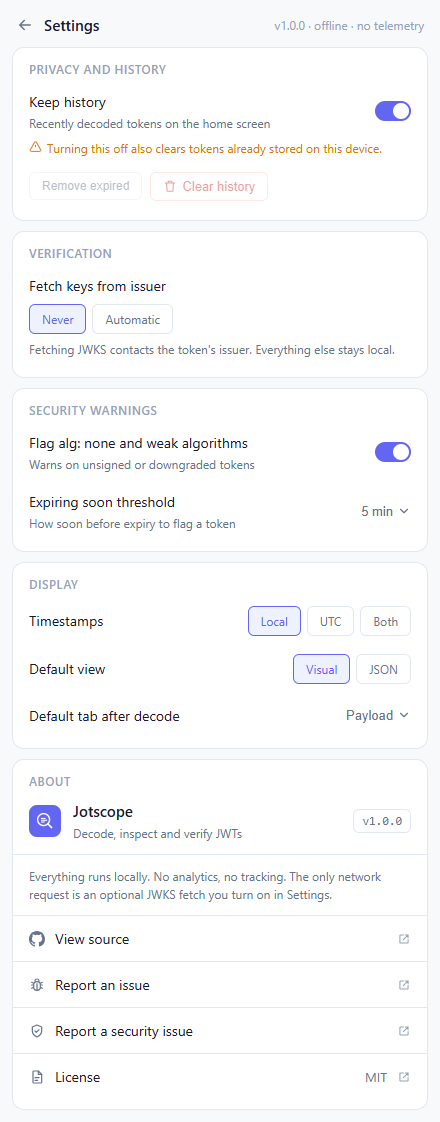
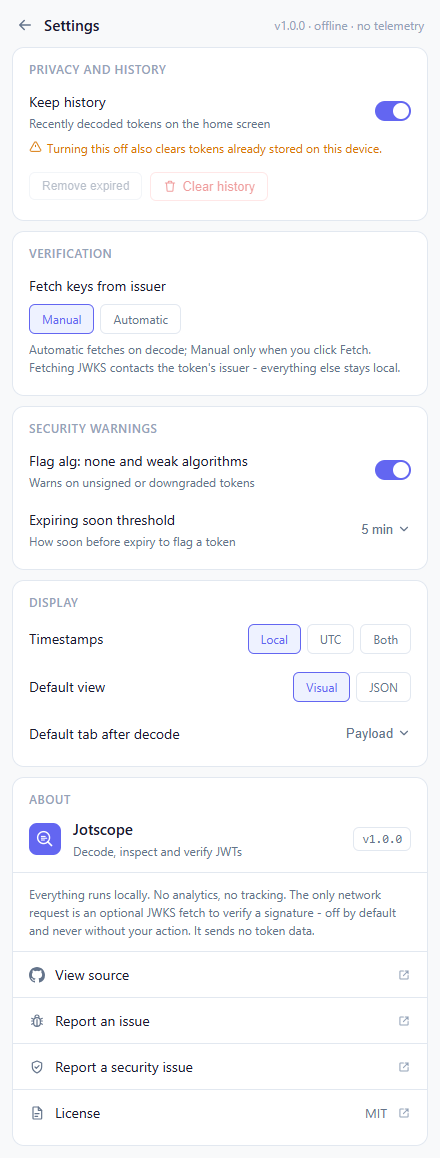
fix: rebind reserved shortcuts and rename fetch mode Never→Manual (#9)

diff --git a/popup.js b/popup.js
@@ -822,7 +822,6 @@ jwtInput.addEventListener('input', () => {
 
 jwtInput.addEventListener('keydown', e => {
   if (e.key === 'Enter' && e.ctrlKey) handleDecode();
-  if (e.key === 'C' && e.ctrlKey && e.shiftKey) { e.preventDefault(); clearInput(); }
 });
 
 jwtInput.addEventListener('paste', () => {
@@ -849,7 +848,7 @@ document.addEventListener('paste', e => {
   handleDecode();
 });
 
-// Global keyboard shortcuts (Ctrl+Shift+H/P/B)
+// Global keyboard shortcuts (Ctrl+Shift+H/P/Y)
 document.addEventListener('keydown', async e => {
   if (e.target.tagName === 'TEXTAREA' || e.target.tagName === 'INPUT') return;
   if (!currentToken) return;
@@ -867,10 +866,23 @@ document.addEventListener('keydown', async e => {
       document.querySelector('.btn-copy-json[data-target="payload"]'),
       '<span aria-hidden="true">✓</span> Copied!');
   }
-  if (e.key === 'B' && e.ctrlKey && e.shiftKey) {
+  // Ctrl+Shift+Y copies Bearer (Ctrl+Shift+B is reserved by Chrome for the bookmarks bar).
+  if (e.key === 'Y' && e.ctrlKey && e.shiftKey) {
     e.preventDefault();
     copyBearerBtn.click();
   }
+});
+
+// Ctrl+Backspace clears the loaded token / input from anywhere (Ctrl+Shift+C is
+// reserved by Chrome for Inspect Element). Bound globally so it works in the
+// decoded view too - but stands aside in the search / JWKS fields so their
+// native word-delete still works.
+document.addEventListener('keydown', e => {
+  if (!(e.key === 'Backspace' && e.ctrlKey)) return;
+  const t = e.target;
+  if (t.tagName === 'INPUT' || (t.tagName === 'TEXTAREA' && t !== jwtInput)) return;
+  e.preventDefault();
+  clearInput();
 });
 
 // View "View all" placeholder
@@ -1087,7 +1099,7 @@ keepHistoryToggle.addEventListener('keydown', e => {
 });
 syncKeepHistoryToggle();
 
-// ── Setting: Fetch keys from issuer (never | automatic) ───────────────────
+// ── Setting: Fetch keys from issuer (manual | automatic) ──────────────────
 const fetchKeysSeg = document.getElementById('fetch-keys-seg');
 
 function syncFetchKeysSeg() {

diff --git a/utils/storage.js b/utils/storage.js
@@ -17,15 +17,16 @@ export function setKeepHistory(value) {
 }
 
 // Whether to auto-fetch JWKS from the issuer to verify signatures.
-// The only outbound network call in the app - off ('never') by default.
+// The only outbound network call in the app - 'manual' (on-demand only) by
+// default; 'automatic' fetches on decode. Legacy 'never' values read as 'manual'.
 const FETCH_KEYS_KEY = 'jwt_fetch_keys_mode';
 
 export function getFetchKeysMode() {
-  return localStorage.getItem(FETCH_KEYS_KEY) === 'automatic' ? 'automatic' : 'never';
+  return localStorage.getItem(FETCH_KEYS_KEY) === 'automatic' ? 'automatic' : 'manual';
 }
 
 export function setFetchKeysMode(mode) {
-  localStorage.setItem(FETCH_KEYS_KEY, mode === 'automatic' ? 'automatic' : 'never');
+  localStorage.setItem(FETCH_KEYS_KEY, mode === 'automatic' ? 'automatic' : 'manual');
 }
 
 // Whether to flag alg:none / unrecognized algorithms. Defaults to on.

diff --git a/popup.html b/popup.html
@@ -322,10 +322,10 @@
       <div class="setting-block">
         <p class="setting-name">Fetch keys from issuer</p>
         <div class="segmented" id="fetch-keys-seg" role="group">
-          <span class="seg" data-mode="never">Never</span>
+          <span class="seg" data-mode="manual">Manual</span>
           <span class="seg" data-mode="automatic">Automatic</span>
         </div>
-        <p class="setting-desc">Fetching JWKS contacts the token's issuer. Everything else stays local.</p>
+        <p class="setting-desc">Automatic fetches on decode; Manual only when you click Fetch. Fetching JWKS contacts the token's issuer - everything else stays local.</p>
       </div>
     </section>
 
@@ -390,7 +390,7 @@
         <span id="about-version" class="about-version">v1.0.0</span>
       </div>
 
-      <p class="about-privacy">Everything runs locally. No analytics, no tracking. The only network request is an optional JWKS fetch you turn on in Settings.</p>
+      <p class="about-privacy">Everything runs locally. No analytics, no tracking. The only network request is an optional JWKS fetch to verify a signature - off by default and never without your action. It sends no token data.</p>
 
       <a class="about-row" href="https://github.com/hradecek/jotscope" target="_blank" rel="noopener noreferrer">
         <span class="about-row-icon">

diff --git a/README.md b/README.md
@@ -225,7 +225,7 @@ Your tokens never leave your browser.
 - No analytics, no tracking, **zero runtime dependencies**.
 - **The clipboard is read only when you ask** - when you click the *Paste* button or press Ctrl/Cmd+V into the input. Jotscope never reads the clipboard on open, in the background, or on a timer, and nothing read is transmitted or stored beyond the local decode.
 - **History & settings are stored only in your browser's `localStorage`** - never synced or sent anywhere. History keeps the **full** recently-decoded tokens so you can revisit them (capped at 150, de-duplicated); clear it, remove expired entries, or turn history off entirely in Settings.
-- Decoding is 100% local. **Signature verification can optionally fetch the issuer's public JWKS** - the single outbound request the extension can make. It's **opt-in** (Settings -> *Fetch keys* -> *Automatic*; default *Never*), sends no token data, and only GETs the issuer's well-known JWKS URL.
+- Decoding is 100% local. **Signature verification can optionally fetch the issuer's public JWKS** - the single outbound request the extension can make. It never fires on its own: the default *Manual* mode fetches only when you click *Fetch*, and *Automatic* (Settings -> *Fetch keys*) fetches on decode. Either way it sends no token data.
 
 | Permission      | Why                                                                                            |
 |-----------------|------------------------------------------------------------------------------------------------|
@@ -246,12 +246,15 @@ Details in [SECURITY.md](SECURITY.md).
 
 ## Keyboard shortcuts
 
-| Shortcut       | Action                                  |
-|----------------|-----------------------------------------|
-| `Ctrl+Enter`   | Decode the token in the input           |
-| `Ctrl+Shift+C` | Clear the input                         |
-| `Paste`        | Auto-decode (when the input is focused) |
-| `Esc`          | Dismiss an open claim tooltip           |
+| Shortcut         | Action                                     |
+|------------------|--------------------------------------------|
+| `Ctrl+Enter`     | Decode the token in the input              |
+| `Ctrl+Backspace` | Clear the input                            |
+| `Paste`          | Auto-decode (when the input is focused)    |
+| `Ctrl+Shift+H`   | Copy the header JSON (with a token loaded) |
+| `Ctrl+Shift+P`   | Copy the payload JSON (with a token loaded)|
+| `Ctrl+Shift+Y`   | Copy the token as a `Bearer` value         |
+| `Esc`            | Dismiss an open claim tooltip              |
 
 ---
 